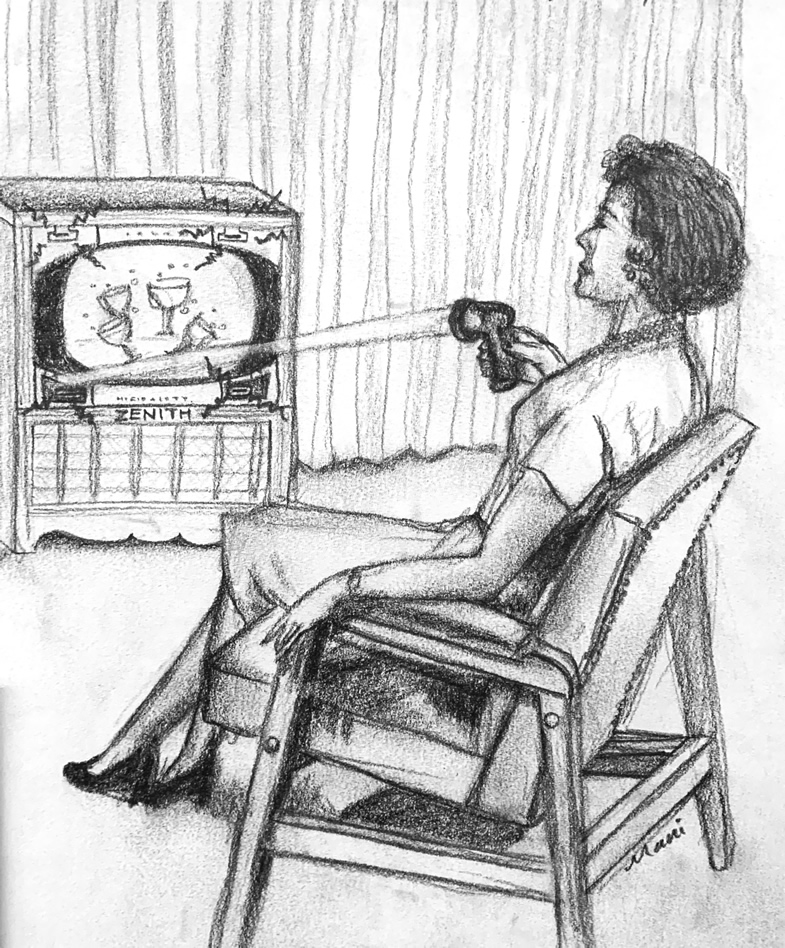
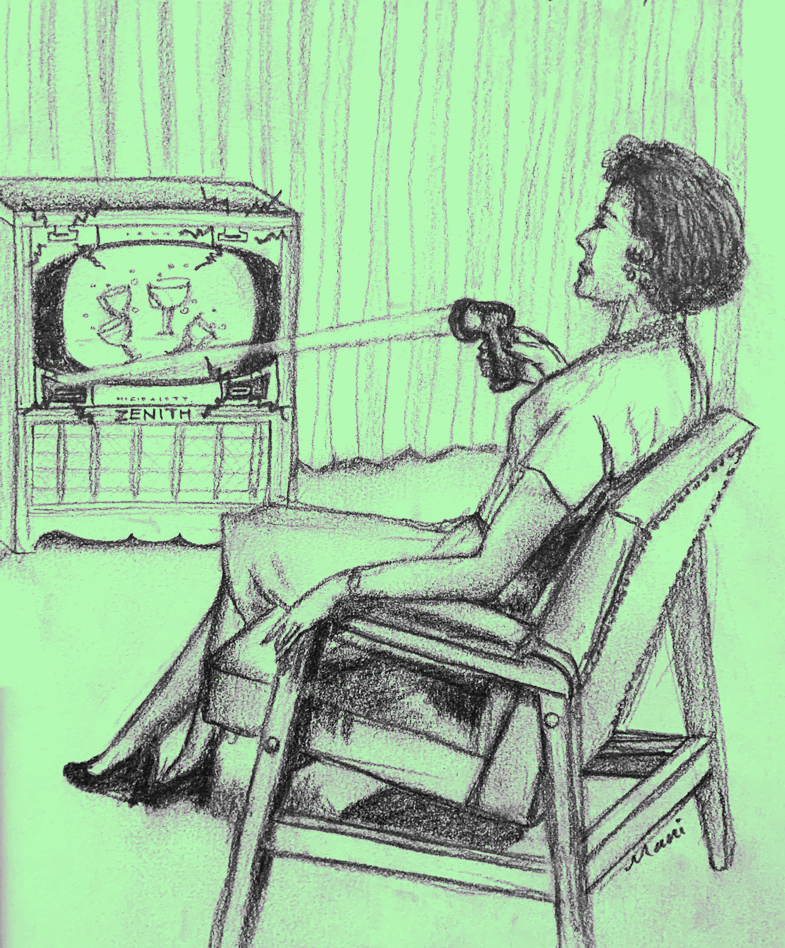
@God Help us!

diff --git a/css/style.css b/css/style.css
@@ -1,4 +1,4 @@
-@import url('https://fonts.googleapis.com/css?family=Roboto+mono:400,400i,900,900i&display=swap');
+@import url('https://fonts.googleapis.com/css2?family=Roboto+Mono:ital,wght@0,400;1,700&display=swa');
 body {
     background-color: lightcyan;
     font-family: 'Roboto mono', Arial, Helvetica, sans-serif;
@@ -14,8 +14,8 @@ body {
 }
 
 h1 {
-    font-size: 2.3em;
-    font-weight: 900;
+    font-size: 1.8em;
+    font-weight: 700;
     color: white;
     background-color: tomato;
     transition: all 1s;
@@ -24,7 +24,7 @@ h1 {
 
 h3 {
     font-size: 1.3em;
-    font-weight: 900;
+    font-weight: 700;
 }
 
 .drawing img {
@@ -39,7 +39,6 @@ h3 {
     border-style: solid;
     margin-top: 1em;
     margin-bottom: 1em;
-    filter: sepia(35%);
 }
 
 a {
@@ -48,13 +47,14 @@ a {
 
 time {
     font-size: 0.9em;
-    font-weight: 900;
+    font-weight: 700;
 }
 
 address {
     font-size: 0.7em;
-    font-weight: 900;
+    font-weight: 700;
 }
+
 
 .green {
     background-color: #b3fab3;
@@ -89,7 +89,7 @@ address {
     height: 0.3em;
     overflow: hidden;
     color: white;
-    font-weight: 900;
+    font-weight: 700;
 }
 
 .titleBar {
@@ -101,7 +101,7 @@ address {
     height: 1.2em;
     overflow: hidden;
     color: white;
-    font-weight: 900;
+    font-weight: 700;
     font-size: 1.3em;
     display: none;
 }
@@ -112,13 +112,26 @@ address {
     top: 2.2em;
     left: 0;
     width: 100%;
-    height: 1.2em;
+    height: 2.2em;
     overflow: hidden;
     font-size: 0.8em;
-    font-weight: 900;
+    font-weight: 700;
     display: none;
     text-align: left;
 }
+
+.yearBar ol {
+padding-left: 0.5em;
+padding-right: 0.5em;
+
+}
+.yearBar li {
+    float:left;
+    margin-left:0.5em;
+    font-size: 1em;
+    display: block;
+
+  }
 
 .hide {
     display: none;
@@ -145,12 +158,17 @@ address {
 }
 
 .moment {
+    height: 95%;
     font-size: 1.2em;
     padding: 1em;
 }
 
 .moment img {
     max-width: 95%;
+}
+
+.bold {
+    font-weight: 700;
 }
 
 article footer {
@@ -169,6 +187,17 @@ footer {
     max-width: 100%;
 }
 
+.pngformat img {
+    background-color: rgb(179, 250, 179);
+    display: block;
+    margin-left: auto;
+    margin-right: auto;
+    width: 90%;
+    border-radius: 0.5%;
+    padding: 0em;
+    margin-top: 1em;
+    margin-bottom: 1em;
+}
 @media screen and (min-width: 50em) {
     .header {
         background-color: #ffffff;

diff --git a/index.html b/index.html
@@ -28,7 +28,7 @@
       <section>
         <h2 class="hide">Timeline</h2>
 
-        <article class="moment green">
+        <article class="moment green" id="1949">
           <ul class="momentlayout">
             <li class="box first">
               <img src="vericon.png" alt="Image of a Vericon system.">
@@ -47,7 +47,7 @@
           </ul>
         </article>
 
-        <article class="moment drawing green">
+        <article class="moment drawing green" id="">
           <ul class="momentlayout">
             <li class="box first">
               <img src="img/nineteen-eighty-four.jpg" alt="A hand drawing of Winston Smith Orwell's protagonist in 1984.">
@@ -65,7 +65,7 @@
           </ul>
         </article>
 
-        <article class="moment green">
+        <article class="moment green" id="1952">
           <ul class="momentlayout">
             <li class="box first">
               <img src="img/nineteen-eighty-four.png" alt="A hand drawing of Winston Smith Orwell's protagonist in 1984.">
@@ -84,7 +84,7 @@
           </ul>
         </article>
 
-        <article class="moment green">
+        <article class="moment green" id="1955">
           <ul class="momentlayout">
             <li class="box first">
               <img src="img/world-population-1955.png" alt="Image that represents the world population in 1955.">
@@ -103,14 +103,14 @@
           </ul>
         </article>
 
-        <article class="moment drawing green">
+        <article class="moment drawing green" id="">
           <ul class="momentlayout">
             <li class="box first">
               <img src="img/flash-matic.jpg" alt="A hand drawing of a women using a Zenith Flash-Matic.">
             </li>
             <li class="box second">
               <h3>The first remote control</h3>
-              <time datetime="1955-01-01">January 1, <span>1995</span></time>
+              <time datetime="1955-01-01">January 1, <span>1955</span></time>
               <address>Chicago, United States</address>
               <p>The Zenith Flash-Matic, the first wireless remote control, was invented by Eugene Polley.</p>
               <footer>

diff --git a/js/index.js b/js/index.js
@@ -37,3 +37,52 @@ if (amtScrolled > h1Top + h1Height) {
 }
 
 })
+
+
+// let theStateOfThings = function () {
+    let theStateOfThings = () => {
+
+        let winH = document.documentElement.clientHeight
+        let winW = document.documentElement.clientWidth
+        let docH = document.documentElement.scrollHeight
+        let docW = document.documentElement.scrollWidth
+        let winY = window.scrollY
+        let winX = window.scrollX
+        let maxY = docH - winH
+        let maxX = docW - winW
+        let pctY = Math.round(winY / Math.max(maxY, 1) * 100)
+        let pctX = Math.round(winX / Math.max(maxX, 1) * 100)
+    
+    
+        let infoForElement = ''	
+    
+        let checkOneSection = ($sec) => {
+            let fromD = $sec.offsetTop
+            let top = $sec.getBoundingClientRect().top
+            let bottom = $sec.getBoundingClientRect().bottom
+            
+            let theId = $sec.getAttribute('id')
+    
+            if (top < winH && bottom > 0) {
+                infoForElement += `<li class="bold>${theId}</li>`
+            } else {
+                infoForElement += `<li class="bold"><a href="#${theId}">${theId}</a></li>`
+            }
+        }
+    
+        // Iterate through each matching eleemnt, call the checkOneSection function for each one
+        document.querySelectorAll('.moment').forEach(checkOneSection)
+        
+    
+        $yearBar.innerHTML = `            
+
+        <ol>${infoForElement}</ol>
+
+         `;
+
+    }
+    
+    // 1                       2     3
+    window.addEventListener('load', theStateOfThings)
+    window.addEventListener('scroll', theStateOfThings)
+    window.addEventListener('resize', theStateOfThings)
